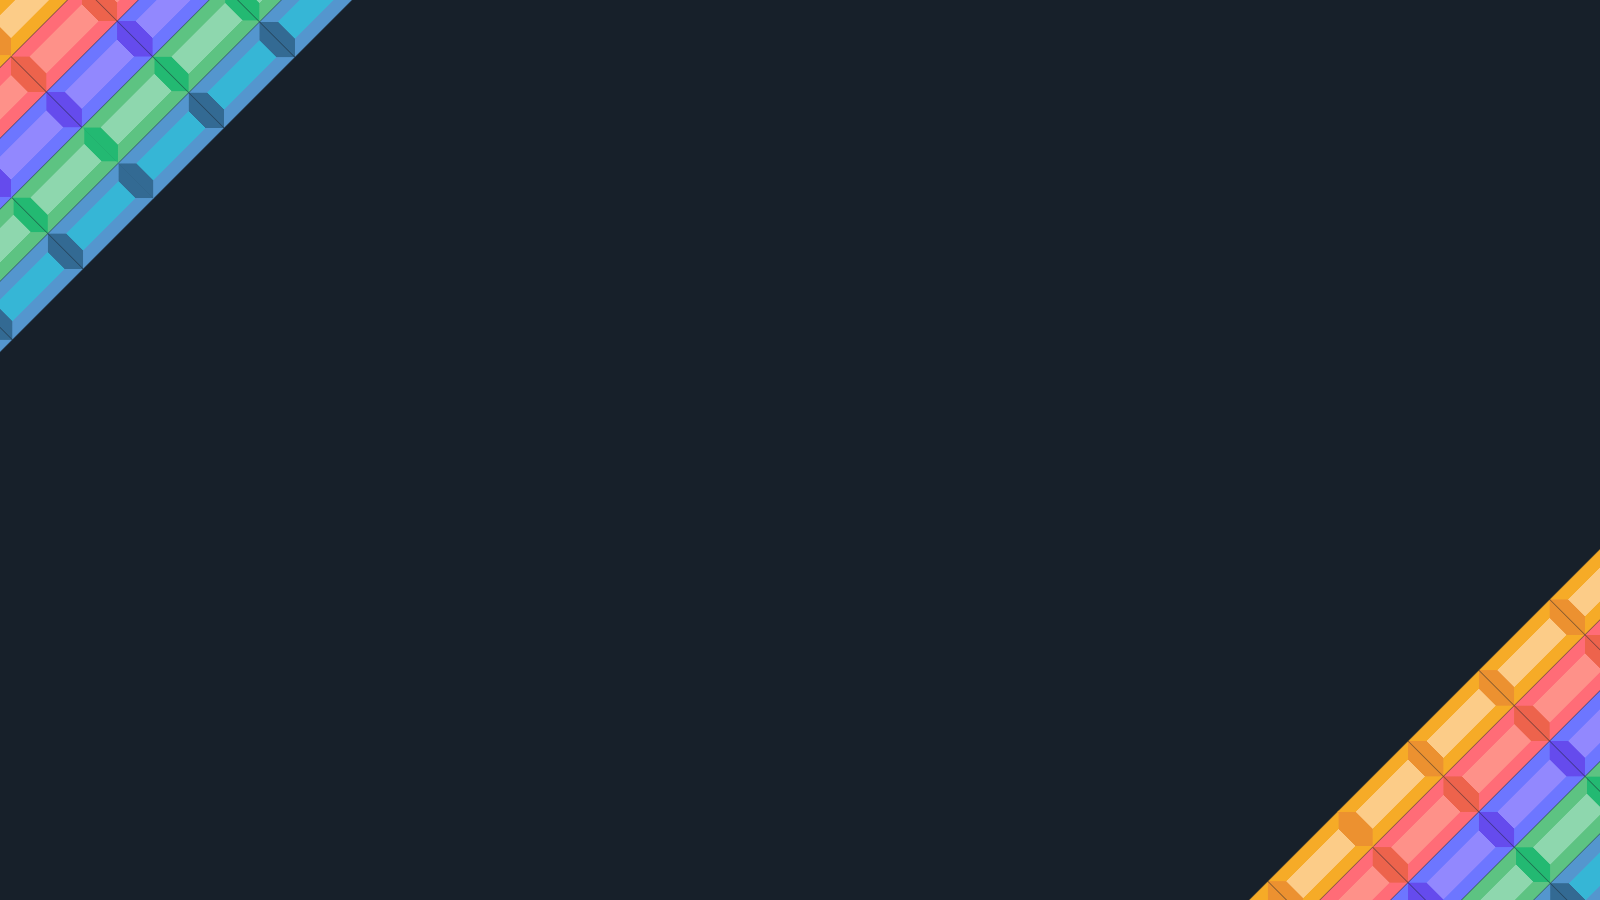
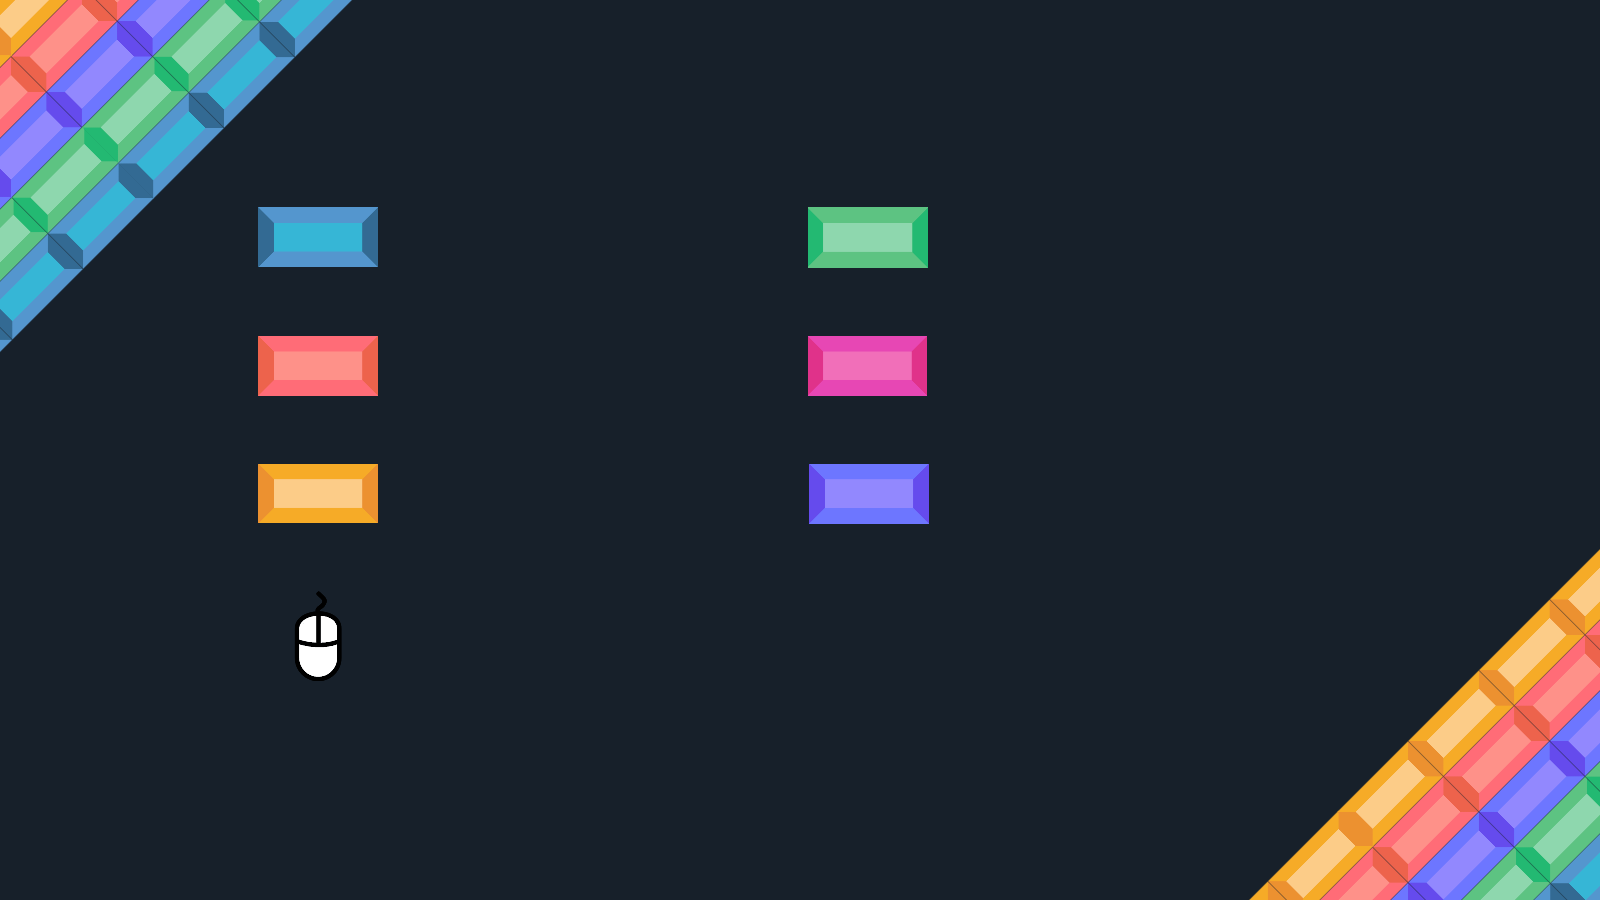
How to play screen

diff --git a/ClientBreakout/Views/GameWindow.h b/ClientBreakout/Views/GameWindow.h
@@ -31,7 +31,7 @@ private: // Class' attributes
     float ballMovementY = -ballSpeed;
     bool ballMoves = false;
     bool surpriseKind = false;
-    bool won;
+    bool won = false;
     string ip;
     string port;
     string playerName;
@@ -63,7 +63,7 @@ public: // Class' functions
     void updateMatrix() {
         string response = Client::getInstance()->getResponse();
         string updatedMatrix = JSON_Management::GetJSONString("Matrix", response);
-        if(JSON_Management::GetJSONString("Win", response) == "TRUE"){
+        if (JSON_Management::GetJSONString("Win", response) == "TRUE") {
             this->won = true;
         }
         this->matrix.clear();
@@ -144,7 +144,6 @@ public: // Class' functions
                 ballMovementY = -ballSpeed;
             }
         }
-
     }
 
     /**
@@ -469,7 +468,7 @@ public: // Class' functions
                 }
             }
 
-            if(this->won){
+            if (this->won) {
                 window.clear();
                 window.draw(gameBackgroundSprite);
                 startGameText.setString("You Won!");
@@ -626,110 +625,110 @@ public: // Class' functions
                             sf::sleep(sf::seconds(5));
                             window.close();
                             break;
+                        }
                     }
                 }
             }
+            
+                window.clear();
 
-            window.clear();
+                // Drawing of the background image
+                window.draw(gameBackgroundSprite);
 
-            // Drawing of the background image
-            window.draw(gameBackgroundSprite);
+                // Drawing of the player name text
+                window.draw(playerNameText);
 
-            // Drawing of the player name text
-            window.draw(playerNameText);
+                // Drawing of the player score text
+                scoreText.setString("Score: " + to_string(this->score));
+                window.draw(scoreText);
 
-            // Drawing of the player score text
-            scoreText.setString("Score: " + to_string(this->score));
-            window.draw(scoreText);
+                // Drawing of the start game text
+                window.draw(startGameText);
 
-            // Drawing of the start game text
-            window.draw(startGameText);
+                // Drawing of the ip and port text
+                window.draw(ipPortText);
 
-            // Drawing of the ip and port text
-            window.draw(ipPortText);
+                // Drawing of the surprise title text
+                window.draw(surpriseTitle);
 
-            // Drawing of the surprise title text
-            window.draw(surpriseTitle);
-
-            // Drawing of the surprise text
-            if (surpriseKind) {
-                surpriseText.setFillColor(sf::Color::Green);
-            } else {
-                surpriseText.setFillColor(sf::Color::Red);
-            }
-            surpriseText.setString(this->surprise);
-            window.draw(surpriseText);
-
-            // Drawing of the player lives text
-            livesText.setString("Lives: " + to_string(this->lives));
-            window.draw(livesText);
-
-            // Drawing of the ball depth text
-            ballDepthText.setString("Ball depth: " + to_string(this->ballDepth));
-            window.draw(ballDepthText);
-
-            //Drawing of the blocks
-
-            for (int i = 0; i < matrix.size(); i++) {
-                string blockInfo = matrix[i];
-                vector<string> block;
-
-                stringstream ss(blockInfo);
-
-                while (ss.good()) {
-                    string substr;
-                    getline(ss, substr, ',');
-                    block.push_back(substr);
+                // Drawing of the surprise text
+                if (surpriseKind) {
+                    surpriseText.setFillColor(sf::Color::Green);
+                } else {
+                    surpriseText.setFillColor(sf::Color::Red);
                 }
+                surpriseText.setString(this->surprise);
+                window.draw(surpriseText);
 
-                int blockX = stoi(block[0]);
-                int blockY = stoi(block[1]);
-                int blockType = stoi(block[2]);
-                int blockResistance = stoi(block[3]);
+                // Drawing of the player lives text
+                livesText.setString("Lives: " + to_string(this->lives));
+                window.draw(livesText);
 
-                if (blockResistance != 0) {
-                    sf::RectangleShape blockShape(sf::Vector2f(100, 50));
-                    blockShape.setPosition(blockX, blockY);
-                    if (blockType == 1) {
-                        blockShape.setTexture(&singleBlockTexture);
-                    } else if (blockType == 2) {
-                        if (blockResistance == 1) {
-                            blockShape.setTexture(&doubleBlockR1Texture);
-                        } else {
-                            blockShape.setTexture(&doubleBlockTexture);
-                        }
-                    } else if (blockType == 3) {
-                        if (blockResistance == 1) {
-                            blockShape.setTexture(&tripleBlockR1texture);
-                        } else if (blockResistance == 2) {
-                            blockShape.setTexture(&tripleBlockR2Texture);
-                        } else {
-                            blockShape.setTexture(&tripleBlockTexture);
-                        }
-                    } else if (blockType == 4) {
-                        blockShape.setTexture(&surpriseBlockTexture);
-                    } else if (blockType == 5) {
-                        blockShape.setTexture(&internBlockTexture);
-                    } else if (blockType == 6) {
-                        blockShape.setTexture(&depthBlockTexture);
+                // Drawing of the ball depth text
+                ballDepthText.setString("Ball depth: " + to_string(this->ballDepth));
+                window.draw(ballDepthText);
+
+                //Drawing of the blocks
+
+                for (int i = 0; i < matrix.size(); i++) {
+                    string blockInfo = matrix[i];
+                    vector<string> block;
+
+                    stringstream ss(blockInfo);
+
+                    while (ss.good()) {
+                        string substr;
+                        getline(ss, substr, ',');
+                        block.push_back(substr);
                     }
 
-                    window.draw(blockShape);
+                    int blockX = stoi(block[0]);
+                    int blockY = stoi(block[1]);
+                    int blockType = stoi(block[2]);
+                    int blockResistance = stoi(block[3]);
+
+                    if (blockResistance != 0) {
+                        sf::RectangleShape blockShape(sf::Vector2f(100, 50));
+                        blockShape.setPosition(blockX, blockY);
+                        if (blockType == 1) {
+                            blockShape.setTexture(&singleBlockTexture);
+                        } else if (blockType == 2) {
+                            if (blockResistance == 1) {
+                                blockShape.setTexture(&doubleBlockR1Texture);
+                            } else {
+                                blockShape.setTexture(&doubleBlockTexture);
+                            }
+                        } else if (blockType == 3) {
+                            if (blockResistance == 1) {
+                                blockShape.setTexture(&tripleBlockR1texture);
+                            } else if (blockResistance == 2) {
+                                blockShape.setTexture(&tripleBlockR2Texture);
+                            } else {
+                                blockShape.setTexture(&tripleBlockTexture);
+                            }
+                        } else if (blockType == 4) {
+                            blockShape.setTexture(&surpriseBlockTexture);
+                        } else if (blockType == 5) {
+                            blockShape.setTexture(&internBlockTexture);
+                        } else if (blockType == 6) {
+                            blockShape.setTexture(&depthBlockTexture);
+                        }
+
+                        window.draw(blockShape);
+                    }
                 }
+
+                bar.setSize(sf::Vector2f(barSizeX, 25));
+                if (bar.getSize().x > 0) {
+                    window.draw(bar);
+                }
+
+                // Drawing of the ball
+                window.draw(ball);
+
+                window.display();
             }
-
-            bar.setSize(sf::Vector2f(barSizeX, 25));
-            if (bar.getSize().x > 0) {
-                window.draw(bar);
-            }
-
-            // Drawing of the ball
-            window.draw(ball);
-
-            window.display();
         }
-    }
-
-};
+    };
 
 #endif //CLIENTBREAKOUT_GAMEWINDOW_H

diff --git a/ClientBreakout/Views/GameSettingsWindow.h b/ClientBreakout/Views/GameSettingsWindow.h
@@ -143,6 +143,86 @@ public: // Class' functions
         playText.setOutlineThickness(5);
         playText.setPosition(520, 800);
 
+        //Text of the rules binding
+        sf::Text htpText;
+        htpText.setFont(AtariClassic);
+        htpText.setString("How to play?");
+        htpText.setCharacterSize(50);
+        htpText.setFillColor(sf::Color::White);
+        htpText.setOutlineColor(sf::Color::Black);
+        htpText.setOutlineThickness(5);
+        htpText.setPosition(520, 50);
+
+        //Text of the single block binding
+        sf::Text singleBlockText;
+        singleBlockText.setFont(AtariClassic);
+        singleBlockText.setString("1 Hit to destroy");
+        singleBlockText.setCharacterSize(20);
+        singleBlockText.setFillColor(sf::Color::White);
+        singleBlockText.setOutlineColor(sf::Color::Black);
+        singleBlockText.setOutlineThickness(5);
+        singleBlockText.setPosition(400, 230);
+
+        //Text of the double block block binding
+        sf::Text doubleBlockText;
+        doubleBlockText.setFont(AtariClassic);
+        doubleBlockText.setString("2 Hits to destroy");
+        doubleBlockText.setCharacterSize(20);
+        doubleBlockText.setFillColor(sf::Color::White);
+        doubleBlockText.setOutlineColor(sf::Color::Black);
+        doubleBlockText.setOutlineThickness(5);
+        doubleBlockText.setPosition(400, 355);
+
+        //Text of the triple block binding
+        sf::Text tripleBlockText;
+        tripleBlockText.setFont(AtariClassic);
+        tripleBlockText.setString("3 Hits to destroy");
+        tripleBlockText.setCharacterSize(20);
+        tripleBlockText.setFillColor(sf::Color::White);
+        tripleBlockText.setOutlineColor(sf::Color::Black);
+        tripleBlockText.setOutlineThickness(5);
+        tripleBlockText.setPosition(400, 485);
+
+        //Text of the surprise block binding
+        sf::Text surpriseBlockText;
+        surpriseBlockText.setFont(AtariClassic);
+        surpriseBlockText.setString("Gives surprise events");
+        surpriseBlockText.setCharacterSize(20);
+        surpriseBlockText.setFillColor(sf::Color::White);
+        surpriseBlockText.setOutlineColor(sf::Color::Black);
+        surpriseBlockText.setOutlineThickness(5);
+        surpriseBlockText.setPosition(950, 230);
+
+        //Text of the inside block binding
+        sf::Text insideBlockText;
+        insideBlockText.setFont(AtariClassic);
+        insideBlockText.setString("Destroy it with depth!");
+        insideBlockText.setCharacterSize(20);
+        insideBlockText.setFillColor(sf::Color::White);
+        insideBlockText.setOutlineColor(sf::Color::Black);
+        insideBlockText.setOutlineThickness(5);
+        insideBlockText.setPosition(950, 355);
+
+        //Text of the depth block binding
+        sf::Text depthBlockText;
+        depthBlockText.setFont(AtariClassic);
+        depthBlockText.setString("Increases ball depth");
+        depthBlockText.setCharacterSize(20);
+        depthBlockText.setFillColor(sf::Color::White);
+        depthBlockText.setOutlineColor(sf::Color::Black);
+        depthBlockText.setOutlineThickness(5);
+        depthBlockText.setPosition(950, 485);
+
+        //Text of the bar behavior binding
+        sf::Text barBehaviorText;
+        barBehaviorText.setFont(AtariClassic);
+        barBehaviorText.setString("To move the game bar. Avoid loosing balls!");
+        barBehaviorText.setCharacterSize(22);
+        barBehaviorText.setFillColor(sf::Color::White);
+        barBehaviorText.setOutlineColor(sf::Color::Black);
+        barBehaviorText.setOutlineThickness(5);
+        barBehaviorText.setPosition(365, 630);
+
         //Text of the play binding
         sf::Text warningText;
         warningText.setFont(AtariClassic);
@@ -197,12 +277,20 @@ public: // Class' functions
 
                             window.clear();
 
-                            playText.setString("Loading game! Please wait...");
-                            playText.setFillColor(sf::Color::Green);
-                            playText.setPosition(300, 400);
+                            playText.setString("Loading game...");
+                            playText.setFillColor(sf::Color::White);
+                            playText.setPosition(525, 800);
 
                             window.draw(loadingBackgroundSprite);
                             window.draw(playText);
+                            window.draw(htpText);
+                            window.draw(singleBlockText);
+                            window.draw(doubleBlockText);
+                            window.draw(tripleBlockText);
+                            window.draw(surpriseBlockText);
+                            window.draw(insideBlockText);
+                            window.draw(depthBlockText);
+                            window.draw(barBehaviorText);
 
                             window.display();
                             sf::sleep(sf::seconds(35));
